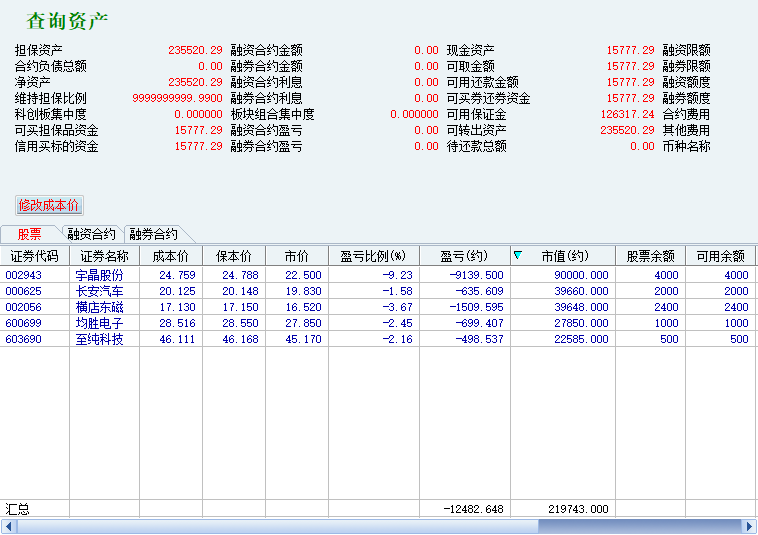
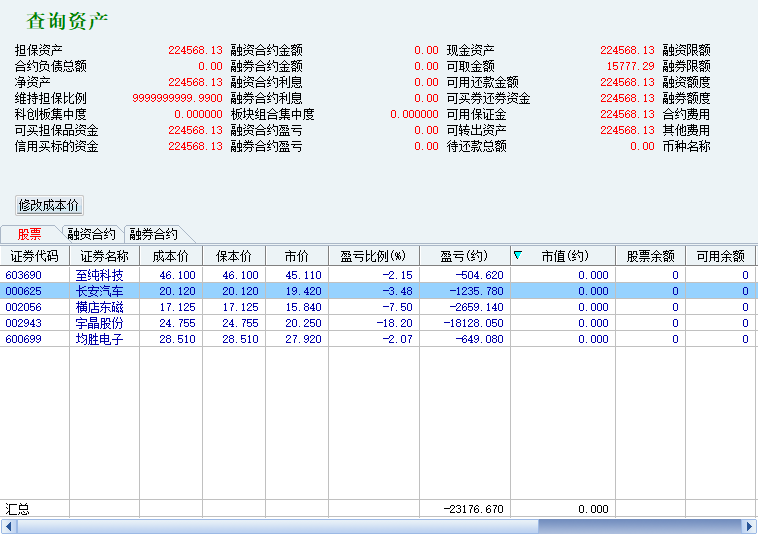
w

diff --git a/source/_posts/2021/1.md b/source/_posts/2021/1.md
@@ -352,11 +352,89 @@ NULL
 ```
 
 #### 实盘
-![](./2021.1.26.cc1.png)
-![](./2021.1.26.cc2.png)
+![](./2021.1.25.cc1.png)
+![](./2021.1.25.cc2.png)
 
 接手了新账号，2个号一共58w，现在亏7w左右
 
 ```go
 最近亏惨了，要转行做价投了
+```
+
+### 2021.1.26
+
+#### 核心思考
+- 短线胜率上不去，不能大仓位盈利，还是先练习为主，一次大仓位回撤就太难了
+
+#### 行情记录
+- 震荡下跌，抱团股开始兑现
+- 短线股套人效应严重，军工板块崩塌
+- 稀土板块资金仍然在尝试上攻
+- 赚钱效应：养殖业、机场，亏钱效应：军工、饮料、医疗器械、证券
+- 涨停：80 跌停：44
+- 涨：1474 平：168 跌：2496
+
+> 缩量跌，还有资金频繁接盘，还有操作空间
+> 抱团资金开始分化，关注下一轮行情什么时候走出引领性板块
+> 稀土继续关注
+
+#### 短线情绪指标
+1. 陕西黑猫
+2. 长华股份
+
+#### 交易目标
+
+```go
+1. 中芯国际 {
+    优势：
+        资金开始布局中芯国际年报增长；
+        下行空间不大；
+    风险：
+        大盘整体回调风险；
+    操作：
+        明日先建仓；
+}
+2. 小康股份 {
+    优势：
+        新能源汽车+华为汽车；
+        真正好好造车的企业；
+        还很便宜；
+    风险：
+        大盘整体回调风险；
+        套牢盘抛压；
+    操作：
+        先处理手上仓位；
+}
+3. 安集科技 {
+    优势：
+        业绩增长超预期；
+        资金强力控盘；
+        不惧减持利空；
+    风险：
+        大盘整体回调风险；
+        资金放弃；
+        低吸资金只是做短差；
+    操作：
+        如果涨太多-》放弃；
+        尾盘再看是否建仓；
+}
+```
+
+#### 交易目标回顾
+
+```go
+1. 吉比特 {
+    被宇晶股份情绪影响，没有动作，其实今天是建底仓的好时机；
+}
+```
+
+#### 实盘
+![](./2021.1.26.cc1.png)
+![](./2021.1.26.cc2.png)
+
+本金58w，亏9w
+
+```go
+1. 小康股份 -》 看情况处理
+2. 昆仑万维 -》 看情况处理
 ```
